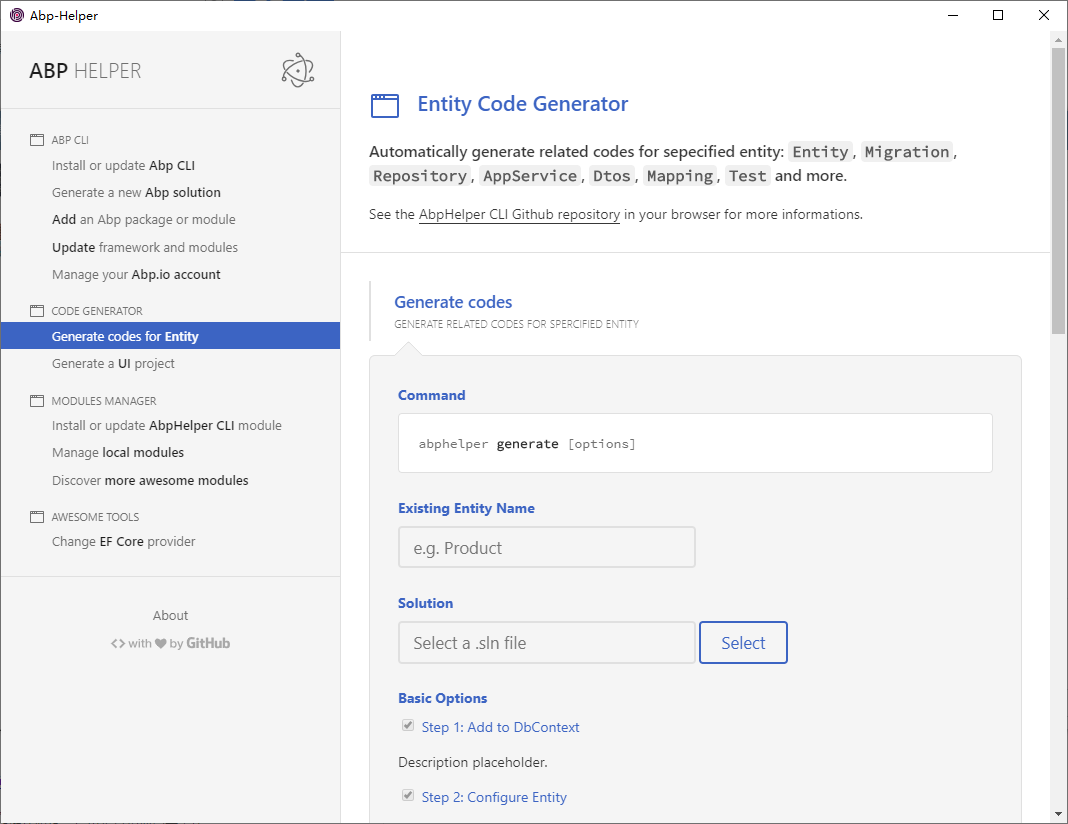
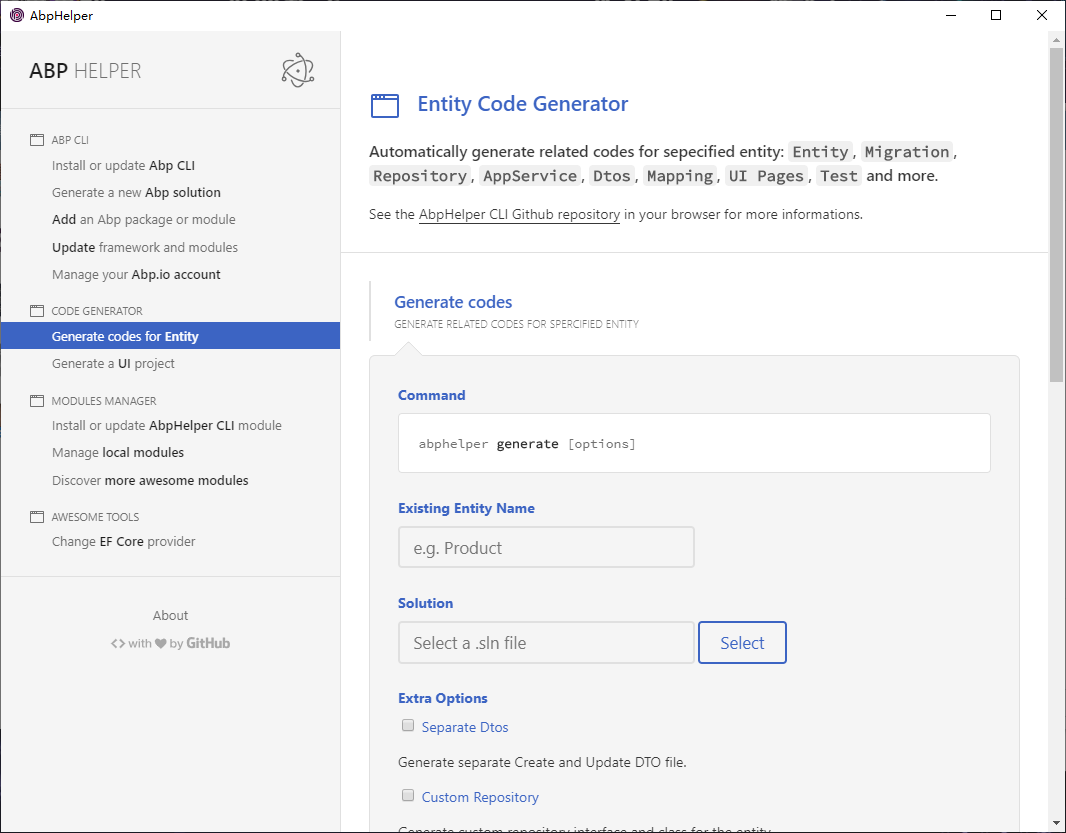
Improve entity code generator.

diff --git a/sections/code-generator/code-generator-entity.html b/sections/code-generator/code-generator-entity.html
@@ -6,7 +6,7 @@
           <svg class="section-icon"><use xlink:href="assets/img/icons.svg#icon-windows"></use></svg>
           Entity Code Generator
         </h1>
-        <h3>Automatically generate related codes for sepecified entity: <code>Entity</code>, <code>Migration</code>, <code>Repository</code>, <code>AppService</code>, <code>Dtos</code>, <code>Mapping</code>, <code>Test</code> and more.</h3>
+        <h3>Automatically generate related codes for sepecified entity: <code>Entity</code>, <code>Migration</code>, <code>Repository</code>, <code>AppService</code>, <code>Dtos</code>, <code>Mapping</code>, <code>UI Pages</code>, <code>Test</code> and more.</h3>
         <p>See the <a href="https://github.com/EasyAbp/AbpHelper.CLI">AbpHelper CLI Github repository<span class="u-visible-to-screen-reader">(opens in new window)</span></a> in your browser for more informations.</p>
       </div>
     </header>
@@ -27,107 +27,49 @@
             <button id="entity-select-solution-file-btn" class="demo-button">Select</button>
           </div>
 
-          <div id="entity-options-basic">
-            <h5>Basic Options</h5>
-            <div>
-              <div>
-                <input id="entity-options-basic-dbcontext" type="checkbox" checked disabled />
-                <label>Step 1: Add to DbContext</label>
-              </div>
-              <p id="entity-options-basic-dbcontext-desc">Description placeholder.</p>
-              <div>
-                <input id="entity-options-basic-configure" type="checkbox" checked disabled />
-                <label>Step 2: Configure Entity</label>
-              </div>
-              <p id="entity-options-basic-configure-desc">Description placeholder.</p>
-              <div>
-                <input id="entity-options-basic-repository" type="checkbox" />
-                <label>Step 3: Create a Custom Repository</label>
-              </div>
-              <p id="entity-options-basic-repository-desc">Description placeholder.</p>
-              <div>
-                <input id="entity-options-basic-dto" type="checkbox" checked disabled />
-                <label>Step 4: Create Dtos</label>
-              </div>
-              <p id="entity-options-basic-dto-desc">Description placeholder.</p>
-              <div>
-                <input id="entity-options-basic-appservice" type="checkbox" checked disabled />
-                <label>Step 5: Create CRUD Application Service</label>
-              </div>
-              <p id="entity-options-basic-appservice-desc">Description placeholder.</p>
-              <div>
-                <input id="entity-options-basic-mapping" type="checkbox" checked disabled />
-                <label>Step 6: Add Dtos to Automapper Profile</label>
-              </div>
-              <p id="entity-options-basic-mapping-desc">Description placeholder.</p>
-              <div>
-                <input id="entity-options-basic-localization" type="checkbox" checked disabled />
-                <label>Step 7: Add to Localization Resource</label>
-              </div>
-              <p id="entity-options-basic-localization-desc">Description placeholder.</p>
-              <div>
-                <input id="entity-options-basic-ui" type="checkbox" checked disabled />
-                <label>Step 8: Generate UI Pages</label>
-              </div>
-              <p id="entity-options-basic-ui-desc">Description placeholder.</p>
-              <div>
-                <input id="entity-options-basic-test" type="checkbox" checked disabled />
-                <label>Step 9: Create Test Code</label>
-              </div>
-              <p id="entity-options-basic-test-desc">Description placeholder.</p>
-              <div>
-                <input id="entity-options-basic-add-migration" type="checkbox" checked disabled />
-                <label>Step 10: Add Migration</label>
-              </div>
-              <p id="entity-options-basic-migration-desc">Description placeholder.</p>
-              <div>
-                <input id="entity-options-basic-updateDatabase" type="checkbox" checked disabled />
-                <label>Step 11: Update Database</label>
-              </div>
-              <p id="entity-options-basic-updateDatabase-desc">Description placeholder.</p>
-            </div>
-          </div>
-
-          <div id="entity-options-extra">
+          <div id="entity-options">
             <h5>Extra Options</h5>
             <div>
               <div>
-                <input id="entity-options-extra-separateDto" type="checkbox" />
+                <input id="entity-options-separateDto" type="checkbox" />
                 <label>Separate Dtos</label>
               </div>
-              <p id="entity-options-extra-separateDto-desc">Generate separate Create and Update DTO file.</p>
+              <p id="entity-options-separateDto-desc">Generate separate Create and Update DTO file.</p>
+              <div>
+                <input id="entity-options-repository" type="checkbox" />
+                <label>Custom Repository</label>
+              </div>
+              <p id="entity-options-repository-desc">Generate custom repository interface and class for the entity.</p>
+              <div>
+                <input id="entity-options-skipDbMigrations" type="checkbox" />
+                <label>Skip DB Migrations</label>
+              </div>
+              <p id="entity-options-skipDbMigrations-desc">Skip performing db migration and update.</p>
             </div>
           </div>
+
+          <div class="demo-protip">
+            <h2>Generation Steps</h2>
+            <p>Step 1: Add to DbContext</p>
+            <p>Step 2: Configure Entity</p>
+            <p>Step 3: Create a Custom Repository</p>
+            <p>Step 4: Create Dtos</p>
+            <p>Step 5: Create CRUD Application Service</p>
+            <p>Step 6: Add Dtos to Automapper Profile</p>
+            <p>Step 7: Add to Localization Resource</p>
+            <p>Step 8: Generate UI Pages</p>
+            <p>Step 9: Create Test Code</p>
+            <p>Step 10: Add Migration</p>
+            <p>Step 11: Update Database</p>
+          </div>
           
-          <div id="entity-options-ui-mvc">
-            <h5>MVC UI Options</h5>
-            <div>
-              <div>
-                <input id="entity-options-uiMvcPage-index" type="checkbox" checked disabled />
-                <label>Generate Index Page</label>
-              </div>
-              <p id="entity-options-uiMvcPage-index-desc">Description placeholder.</p>
-              <div>
-                <input id="entity-options-uiMvcPage-creation" type="checkbox" checked disabled />
-                <label>Generate Creation Page</label>
-              </div>
-              <p id="entity-options-uiMvcPage-creation-desc">Description placeholder.</p>
-              <div>
-                <input id="entity-options-uiMvcPage-edit" type="checkbox" checked disabled />
-                <label>Generate Edit Page</label>
-              </div>
-              <p id="entity-options-uiMvcPage-edit-desc">Description placeholder.</p>
-              <div>
-                <input id="entity-options-ui-mvc-menu" type="checkbox" checked disabled />
-                <label>Add to MenuContributor</label>
-              </div>
-              <p id="entity-options-uiMvcPage-menu-desc">Description placeholder.</p>
-              <div>
-                <input id="entity-options-ui-mvc-mapping" type="checkbox" checked disabled />
-                <label>Add Dtos to Automapper Profile</label>
-              </div>
-              <p id="entity-options-uiMvcPage-mapping-desc">Description placeholder.</p>
-            </div>
+          <div class="demo-protip">
+            <h2>MVC UI Pages Generation Steps</h2>
+            <p>Step 1: Generate Index Page</p>
+            <p>Step 2: Generate Creation Page</p>
+            <p>Step 3: Generate Edit Page</p>
+            <p>Step 4: Add to MenuContributor</p>
+            <p>Step 5: Add Dtos to Automapper Profile</p>
           </div>
 
           <h5>

diff --git a/renderer-process/code-generator/code-generator-entity.js b/renderer-process/code-generator/code-generator-entity.js
@@ -3,60 +3,20 @@ const exec = require('child_process').exec
 
 let isRunning = false
 
-let basicOptions = {
-  dbcontext : true,
-  configure : true,
-  repository : false,
-  dto : true,
-  appservice : true,
-  mapping : true,
-  localization : true,
-  ui : true,
-  test : true,
-  addMigration : true,
-  updateDatabase : true
-}
-
 let extraOptions = {
-  separateDto : false
-}
-
-let uiOptions = {
-  mvc: {
-    pageIndex: true,
-    pageCreation: true,
-    pageEdit: true,
-    menu: true,
-    mapping: true
-  }
+  separateDto: false,
+  repository: false,
+  skipDbMigrations: false
 }
 
 let consoleNode = document.getElementById('box-code-generator-entity').getElementsByTagName('textarea')[0]
 
 const execBtn = document.getElementById('entity-execute')
 const selectSolutionFileBtn = document.getElementById('entity-select-solution-file-btn')
-const basicOptionsCheckBox = {
-  dbcontext: document.getElementById('entity-options-basic-dbcontext'),
-  configure: document.getElementById('entity-options-basic-configure'),
-  repository: document.getElementById('entity-options-basic-repository'),
-  dto: document.getElementById('entity-options-basic-dto'),
-  appservice: document.getElementById('entity-options-basic-appservice'),
-  mapping: document.getElementById('entity-options-basic-mapping'),
-  localization: document.getElementById('entity-options-basic-localization'),
-  ui: document.getElementById('entity-options-basic-ui'),
-  test: document.getElementById('entity-options-basic-test'),
-  addMigration: document.getElementById('entity-options-basic-addMigration'),
-  updateDatabase: document.getElementById('entity-options-basic-updateDatabase')
-}
 const extraOptionsCheckBox = {
-  separateDto: document.getElementById('entity-options-extra-separateDto'),
-}
-const mvcUiOptionsCheckBox = {
-  pageIndex: document.getElementById('entity-options-uiMvcPageIndex'),
-  pageCreation: document.getElementById('entity-options-uiMvcPageCreation'),
-  pageEdit: document.getElementById('entity-options-uiMvcPageEdit'),
-  menu: document.getElementById('entity-options-ui-mvc-menu'),
-  mapping: document.getElementById('entity-options-ui-mvc-mapping')
+  separateDto: document.getElementById('entity-options-separateDto'),
+  repository: document.getElementById('entity-options-repository'),
+  skipDbMigrations: document.getElementById('entity-options-skipDbMigrations'),
 }
 
 selectSolutionFileBtn.addEventListener('click', (event) => {
@@ -76,12 +36,14 @@ execBtn.addEventListener('click', (event) => {
   runExec()
 })
 
-basicOptionsCheckBox.repository.addEventListener('click', (event) => {
-  basicOptions.repository = basicOptionsCheckBox.repository.checked
-})
-
 extraOptionsCheckBox.separateDto.addEventListener('click', (event) => {
   extraOptions.separateDto = extraOptionsCheckBox.separateDto.checked
+})
+extraOptionsCheckBox.repository.addEventListener('click', (event) => {
+  extraOptions.repository = extraOptionsCheckBox.repository.checked
+})
+extraOptionsCheckBox.repository.addEventListener('click', (event) => {
+  extraOptions.skipDbMigrations = extraOptionsCheckBox.skipDbMigrations.checked
 })
 
 function runExec() {
@@ -92,9 +54,10 @@ function runExec() {
   execBtn.disabled = true
   document.getElementById('entity-process').style.display = 'block'
 
-  let cmdStr = 'abphelper generate -e' + entityName + ' -s ' + solutionFile
-  if (basicOptions.repository) cmdStr += ' --custom-repository'
+  let cmdStr = 'abphelper generate -e ' + entityName + ' -s ' + solutionFile
   if (extraOptions.separateDto) cmdStr += ' --separate-dto'
+  if (extraOptions.repository) cmdStr += ' --custom-repository'
+  if (extraOptions.skipDbMigrations) cmdStr += ' --skip-db-migrations'
   clearConsoleContent()
   addConsoleContent(cmdStr + '\n\nRunning...\n')
   scrollConsoleToBottom()
